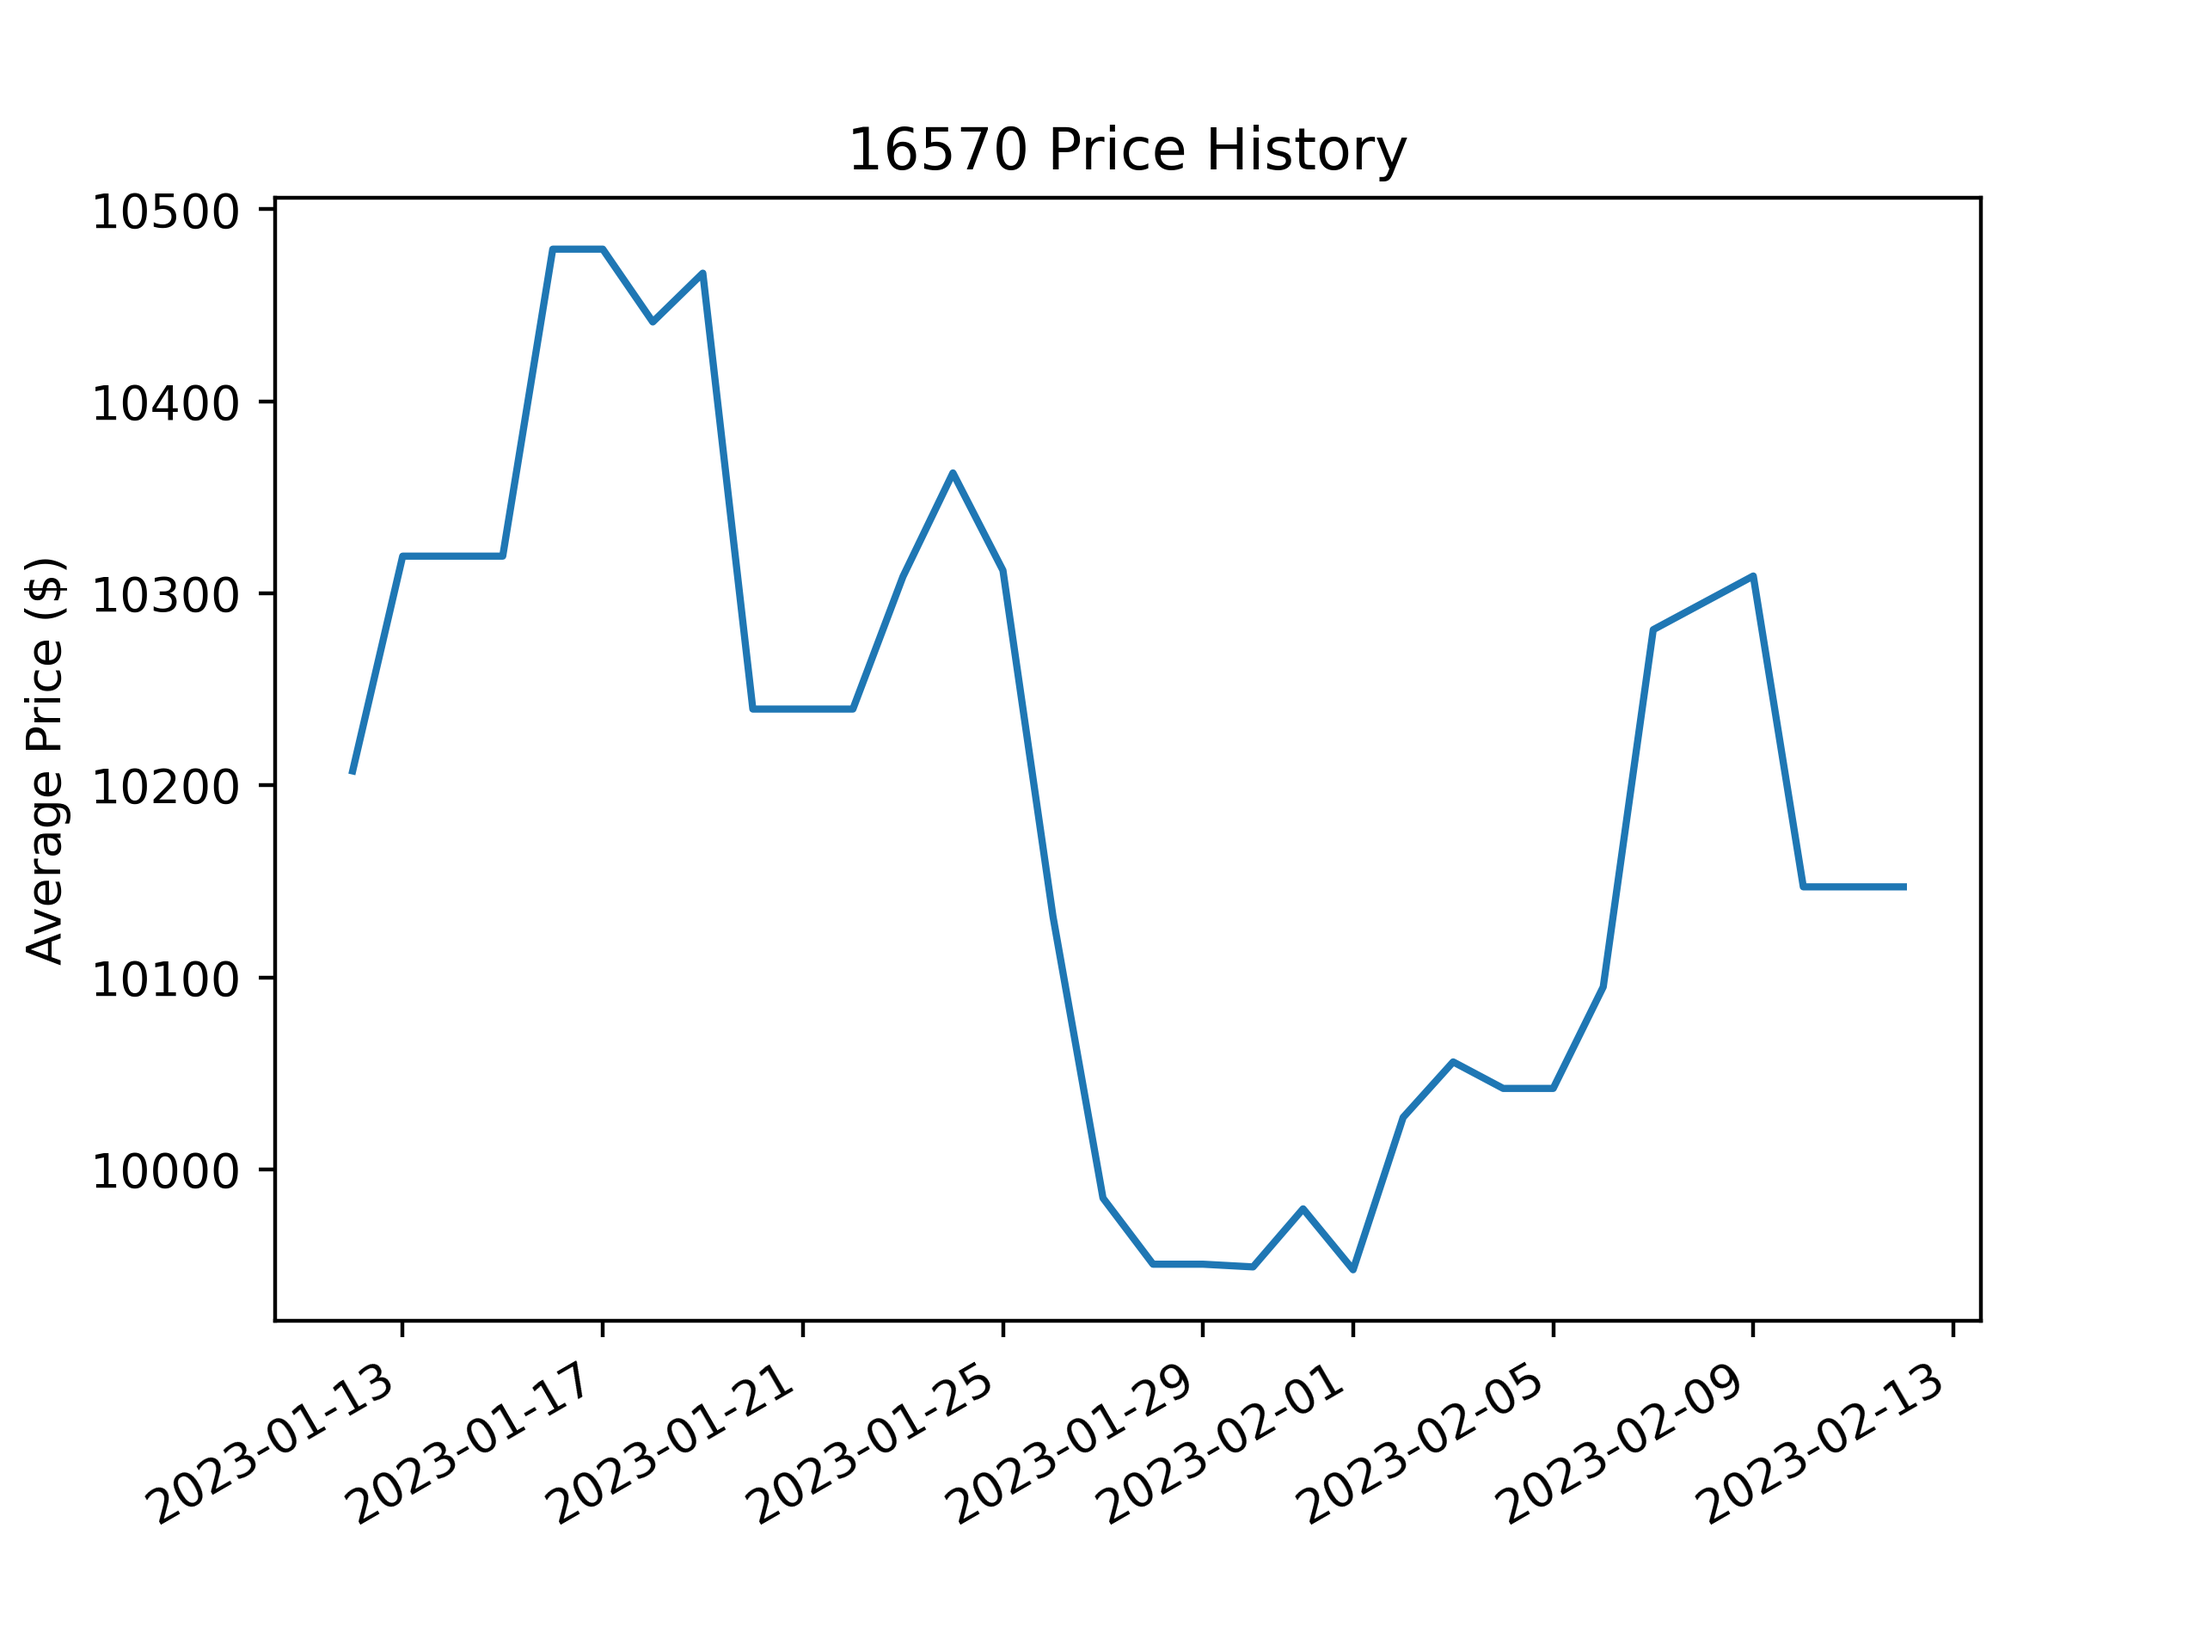
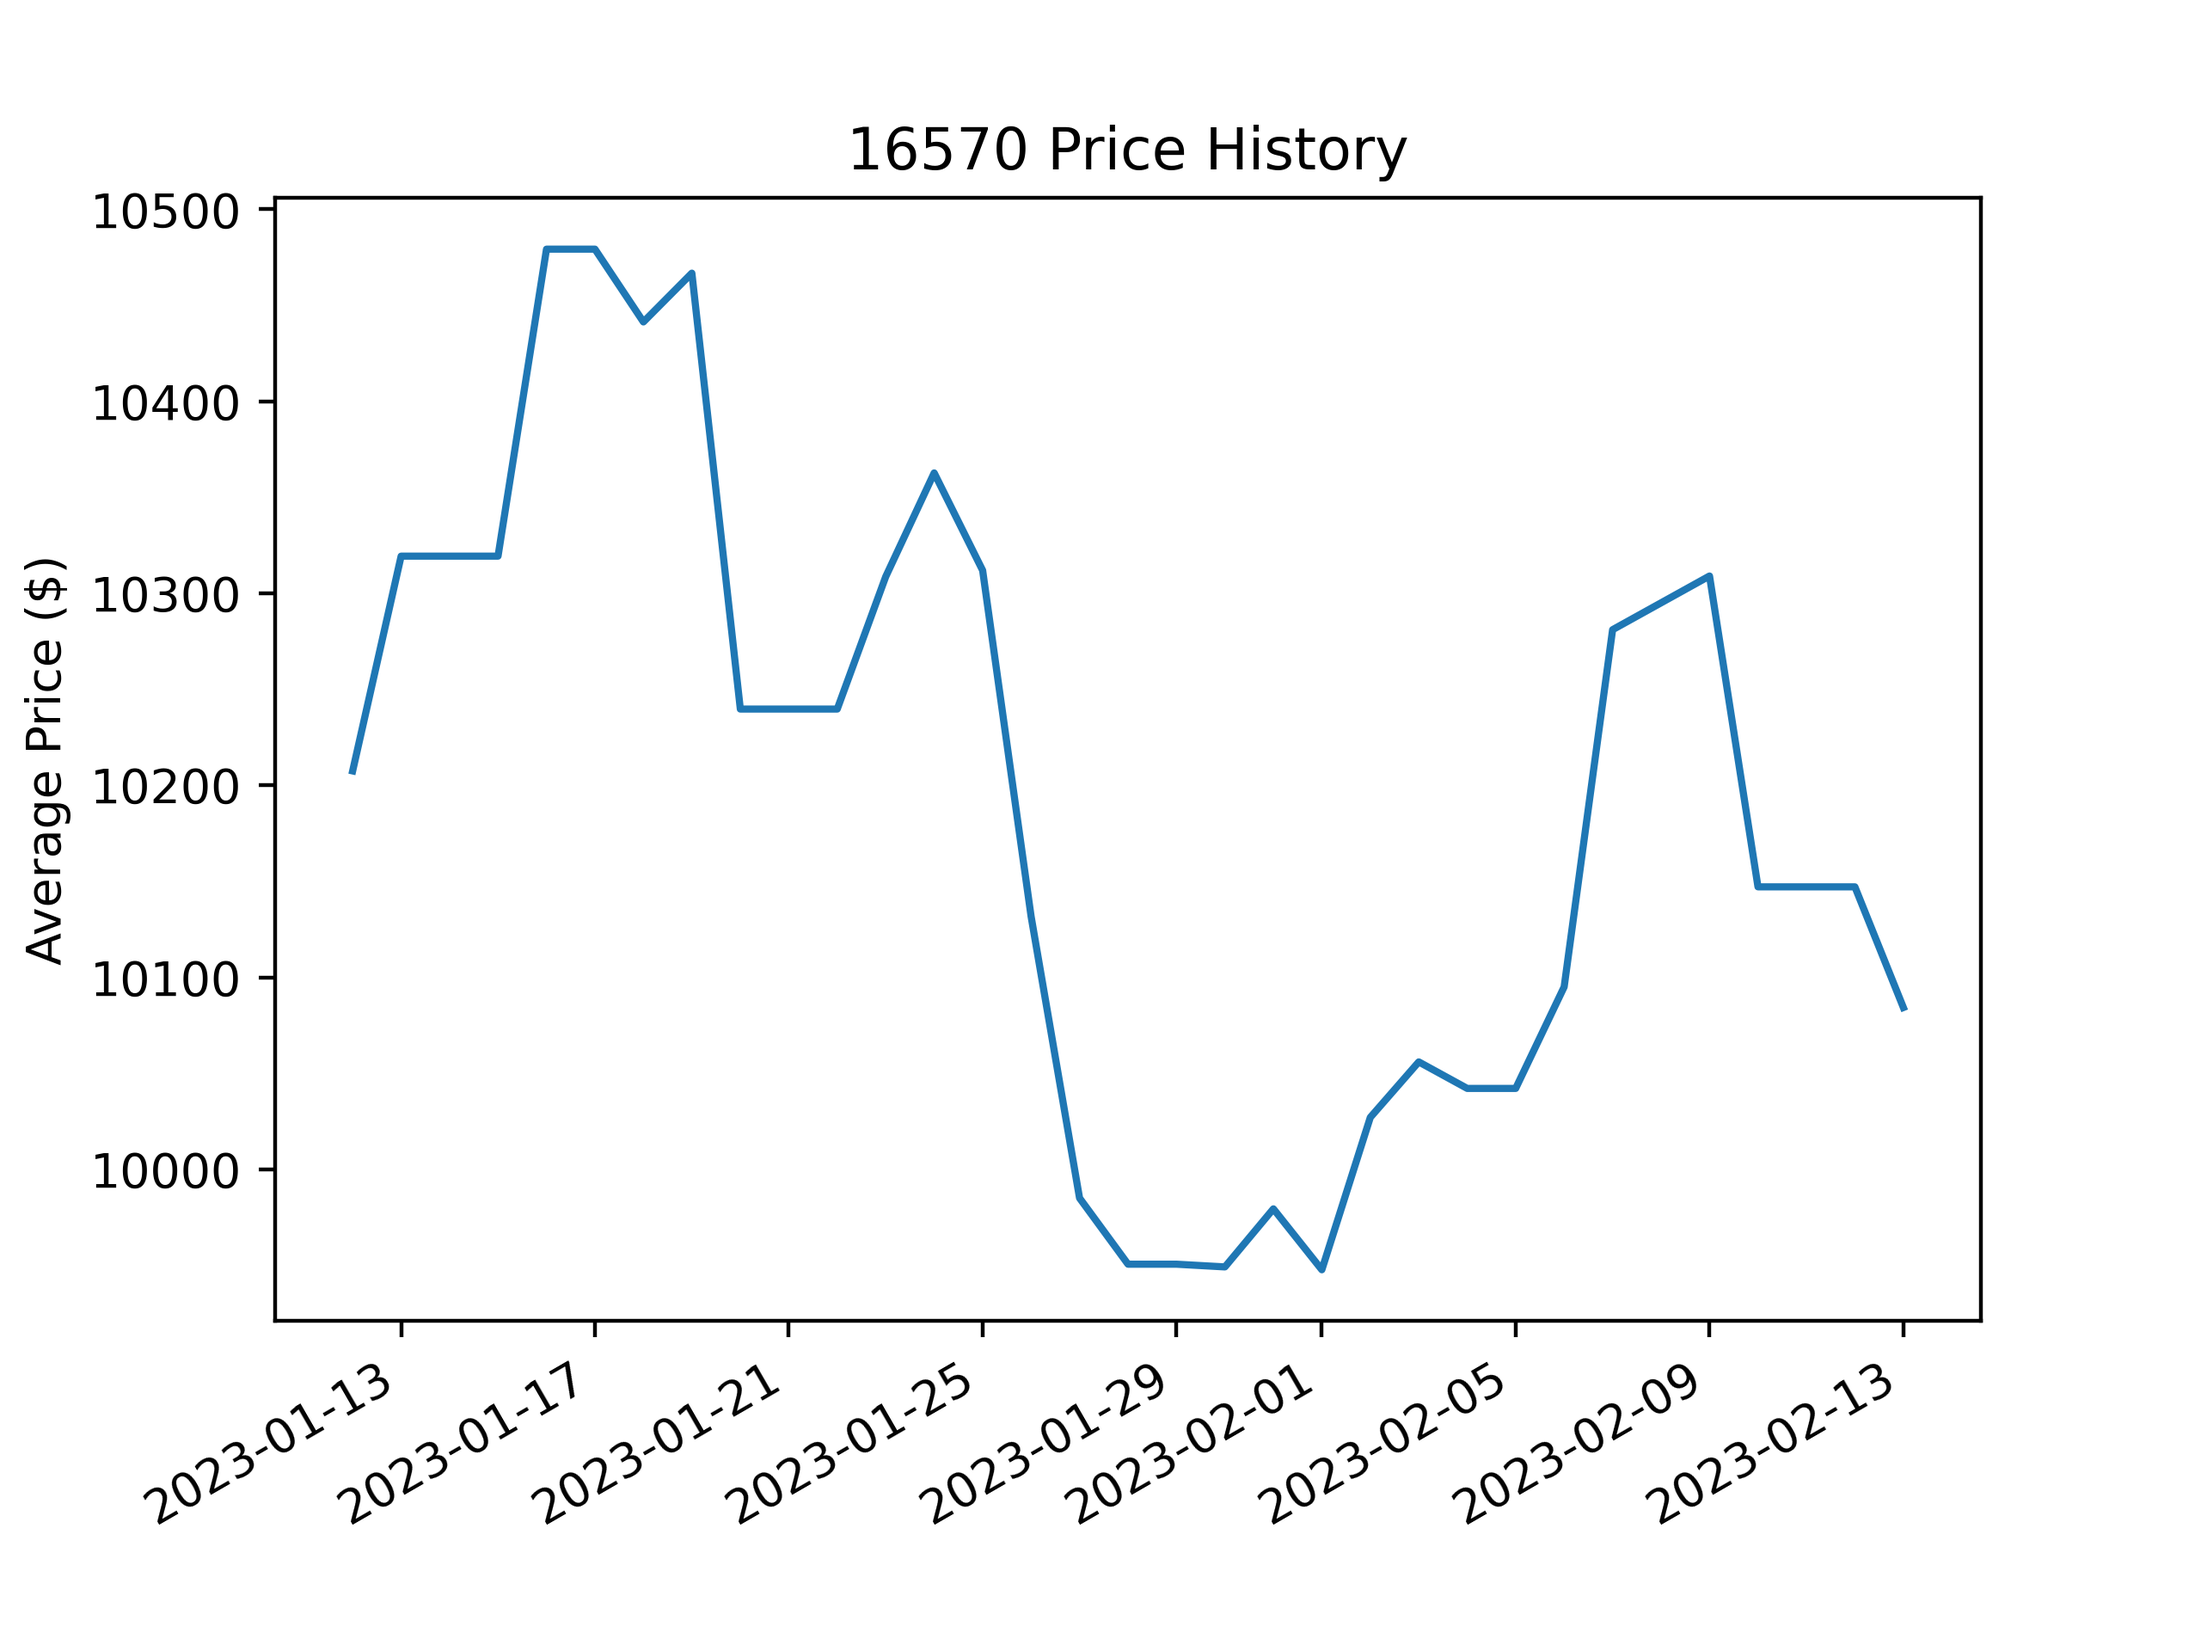
today's prices

diff --git a/all-prices/16570.html b/all-prices/16570.html
@@ -1,1 +1,1 @@
-<!DOCTYPE html><html><body><h1>All listings sorted in ascending order by price</h1><div> <a href="https://www.watchfinder.com/Rolex/Explorer II/16570/1780/item/234124" target="_blank" rel="noopener noreferrer">$8450</a> </div><div> <a href="https://www.watchfinder.com/Rolex/Explorer II/16570/1780/item/230008" target="_blank" rel="noopener noreferrer">$8765</a> </div><div> <a href="https://www.watchfinder.com/Rolex/Explorer II/16570/1780/item/236074" target="_blank" rel="noopener noreferrer">$8885</a> </div><div> <a href="https://www.watchfinder.com/Rolex/Explorer II/16570/1780/item/232242" target="_blank" rel="noopener noreferrer">$9050</a> </div><div> <a href="https://davidsw.com/shop/watch/rolex/rolex-16570-explorer-ii-with-white-dial-80/" target="_blank" rel="noopener noreferrer">$9275.0</a> </div><div> <a href="https://www.thewatchbox.com/shop/4652947.html" target="_blank" rel="noopener noreferrer">$9450</a> </div><div> <a href="https://www.crownandcaliber.com/products/rolex-explorer-ii-16570-10-10-rol-t6d7yb" target="_blank" rel="noopener noreferrer">$9600</a> </div><div> <a href="https://www.crownandcaliber.com/products/rolex-explorer-ii-16570-10-10-rol-mg7xp9" target="_blank" rel="noopener noreferrer">$9600</a> </div><div> <a href="https://www.crownandcaliber.com/products/rolex-explorer-ii-16570-10-10-rol-ngl42x" target="_blank" rel="noopener noreferrer">$9750</a> </div><div> <a href="https://www.crownandcaliber.com/products/rolex-explorer-ii-16570-10-10-rol-rcg6ap" target="_blank" rel="noopener noreferrer">$9750</a> </div><div> <a href="https://aiswatches.com/rolex-polar-explorer-ii-16570-p-serial-white-dial-box-papers-rsc-serviced/" target="_blank" rel="noopener noreferrer">$9775.0</a> </div><div> <a href="https://aiswatches.com/rolex-polar-explorer-ii-16570-y-serial-white-dial-box-paper-1/" target="_blank" rel="noopener noreferrer">$9775.0</a> </div><div> <a href="https://mandbwatches.com/product/rolex-explorer-ii-40mm-16570-stainless-steel-polar-white-dial-w-papers-unpolished/" target="_blank" rel="noopener noreferrer">$9950.0</a> </div><div> <a href="https://www.crownandcaliber.com/products/rolex-explorer-ii-16570-10-10-rol-xm8dgq" target="_blank" rel="noopener noreferrer">$10150</a> </div><div> <a href="https://www.watchfinder.com/Rolex/Explorer II/16570/1780/item/233065" target="_blank" rel="noopener noreferrer">$10175</a> </div><div> <a href="https://www.watchfinder.com/Rolex/Explorer II/16570/1780/item/230050" target="_blank" rel="noopener noreferrer">$10320</a> </div><div> <a href="https://www.watchfinder.com/Rolex/Explorer II/16570/1780/item/239520" target="_blank" rel="noopener noreferrer">$10660</a> </div><div> <a href="https://www.watchfinder.com/Rolex/Explorer II/16570/1780/item/216068" target="_blank" rel="noopener noreferrer">$10660</a> </div><div> <a href="https://www.watchfinder.com/Rolex/Explorer II/16570/1780/item/231123" target="_blank" rel="noopener noreferrer">$10690</a> </div><div> <a href="https://www.watchfinder.com/Rolex/Explorer II/16570/1780/item/235967" target="_blank" rel="noopener noreferrer">$10855</a> </div><div> <a href="https://aiswatches.com/rolex-polar-explorer-ii-16570-v-serial-white-dial-3186-movement-box-papers/" target="_blank" rel="noopener noreferrer">$10975.0</a> </div><div> <a href="https://aiswatches.com/rolex-polar-explorer-ii-16570-m-serial-white-dial-3186-movement-box-papers/" target="_blank" rel="noopener noreferrer">$10975.0</a> </div><div> <a href="https://www.watchfinder.com/Rolex/Explorer II/16570/1780/item/238727" target="_blank" rel="noopener noreferrer">$11160</a> </div><div> <a href="https://www.watchfinder.com/Rolex/Explorer II/16570/1780/item/229673" target="_blank" rel="noopener noreferrer">$11160</a> </div><div> <a href="https://www.bobswatches.com//rolex-explorer-ii-16570-white-dial-watch.html" target="_blank" rel="noopener noreferrer">$11295</a> </div><div> <a href="https://davidsw.com/shop/watch/rolex/rolex-16570-explorer-ii-with-white-dial-86/" target="_blank" rel="noopener noreferrer">$12675.0</a> </div></body></html>
+<!DOCTYPE html><html><body><h1>All listings sorted in ascending order by price</h1><div> <a href="https://www.watchfinder.com/Rolex/Explorer II/16570/1780/item/234124" target="_blank" rel="noopener noreferrer">$8450</a> </div><div> <a href="https://www.thewatchbox.com/shop/4673216.html" target="_blank" rel="noopener noreferrer">$8450</a> </div><div> <a href="https://www.watchfinder.com/Rolex/Explorer II/16570/1780/item/230008" target="_blank" rel="noopener noreferrer">$8765</a> </div><div> <a href="https://www.watchfinder.com/Rolex/Explorer II/16570/1780/item/236074" target="_blank" rel="noopener noreferrer">$8885</a> </div><div> <a href="https://www.watchfinder.com/Rolex/Explorer II/16570/1780/item/232242" target="_blank" rel="noopener noreferrer">$9050</a> </div><div> <a href="https://davidsw.com/shop/watch/rolex/rolex-16570-explorer-ii-with-white-dial-80/" target="_blank" rel="noopener noreferrer">$9275.0</a> </div><div> <a href="https://www.thewatchbox.com/shop/4652947.html" target="_blank" rel="noopener noreferrer">$9450</a> </div><div> <a href="https://www.crownandcaliber.com/products/rolex-explorer-ii-16570-10-10-rol-t6d7yb" target="_blank" rel="noopener noreferrer">$9600</a> </div><div> <a href="https://www.crownandcaliber.com/products/rolex-explorer-ii-16570-10-10-rol-mg7xp9" target="_blank" rel="noopener noreferrer">$9600</a> </div><div> <a href="https://www.crownandcaliber.com/products/rolex-explorer-ii-16570-10-10-rol-ngl42x" target="_blank" rel="noopener noreferrer">$9750</a> </div><div> <a href="https://www.crownandcaliber.com/products/rolex-explorer-ii-16570-10-10-rol-rcg6ap" target="_blank" rel="noopener noreferrer">$9750</a> </div><div> <a href="https://aiswatches.com/rolex-polar-explorer-ii-16570-p-serial-white-dial-box-papers-rsc-serviced/" target="_blank" rel="noopener noreferrer">$9775.0</a> </div><div> <a href="https://aiswatches.com/rolex-polar-explorer-ii-16570-y-serial-white-dial-box-paper-1/" target="_blank" rel="noopener noreferrer">$9775.0</a> </div><div> <a href="https://mandbwatches.com/product/rolex-explorer-ii-40mm-16570-stainless-steel-polar-white-dial-w-papers-unpolished/" target="_blank" rel="noopener noreferrer">$9950.0</a> </div><div> <a href="https://www.crownandcaliber.com/products/rolex-explorer-ii-16570-10-10-rol-xm8dgq" target="_blank" rel="noopener noreferrer">$10150</a> </div><div> <a href="https://www.watchfinder.com/Rolex/Explorer II/16570/1780/item/233065" target="_blank" rel="noopener noreferrer">$10175</a> </div><div> <a href="https://www.watchfinder.com/Rolex/Explorer II/16570/1780/item/230050" target="_blank" rel="noopener noreferrer">$10320</a> </div><div> <a href="https://www.watchfinder.com/Rolex/Explorer II/16570/1780/item/239520" target="_blank" rel="noopener noreferrer">$10660</a> </div><div> <a href="https://www.watchfinder.com/Rolex/Explorer II/16570/1780/item/216068" target="_blank" rel="noopener noreferrer">$10660</a> </div><div> <a href="https://www.watchfinder.com/Rolex/Explorer II/16570/1780/item/231123" target="_blank" rel="noopener noreferrer">$10690</a> </div><div> <a href="https://www.watchfinder.com/Rolex/Explorer II/16570/1780/item/235967" target="_blank" rel="noopener noreferrer">$10855</a> </div><div> <a href="https://aiswatches.com/rolex-polar-explorer-ii-16570-v-serial-white-dial-3186-movement-box-papers/" target="_blank" rel="noopener noreferrer">$10975.0</a> </div><div> <a href="https://aiswatches.com/rolex-polar-explorer-ii-16570-m-serial-white-dial-3186-movement-box-papers/" target="_blank" rel="noopener noreferrer">$10975.0</a> </div><div> <a href="https://www.watchfinder.com/Rolex/Explorer II/16570/1780/item/238727" target="_blank" rel="noopener noreferrer">$11160</a> </div><div> <a href="https://www.watchfinder.com/Rolex/Explorer II/16570/1780/item/229673" target="_blank" rel="noopener noreferrer">$11160</a> </div><div> <a href="https://www.bobswatches.com//rolex-explorer-ii-16570-white-dial-watch.html" target="_blank" rel="noopener noreferrer">$11295</a> </div><div> <a href="https://davidsw.com/shop/watch/rolex/rolex-16570-explorer-ii-with-white-dial-86/" target="_blank" rel="noopener noreferrer">$12675.0</a> </div></body></html>
